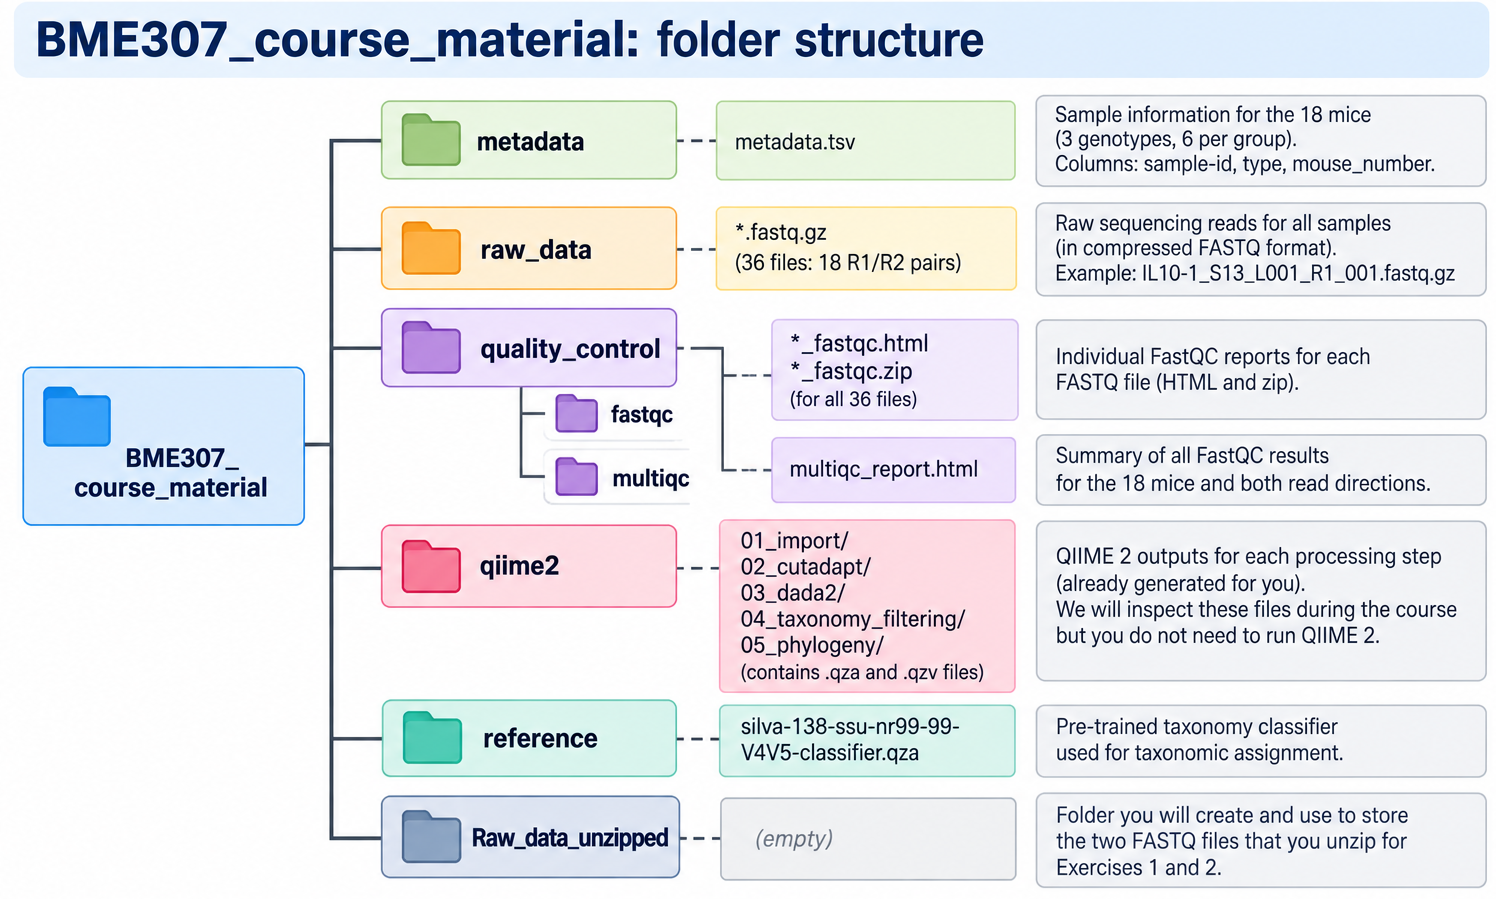
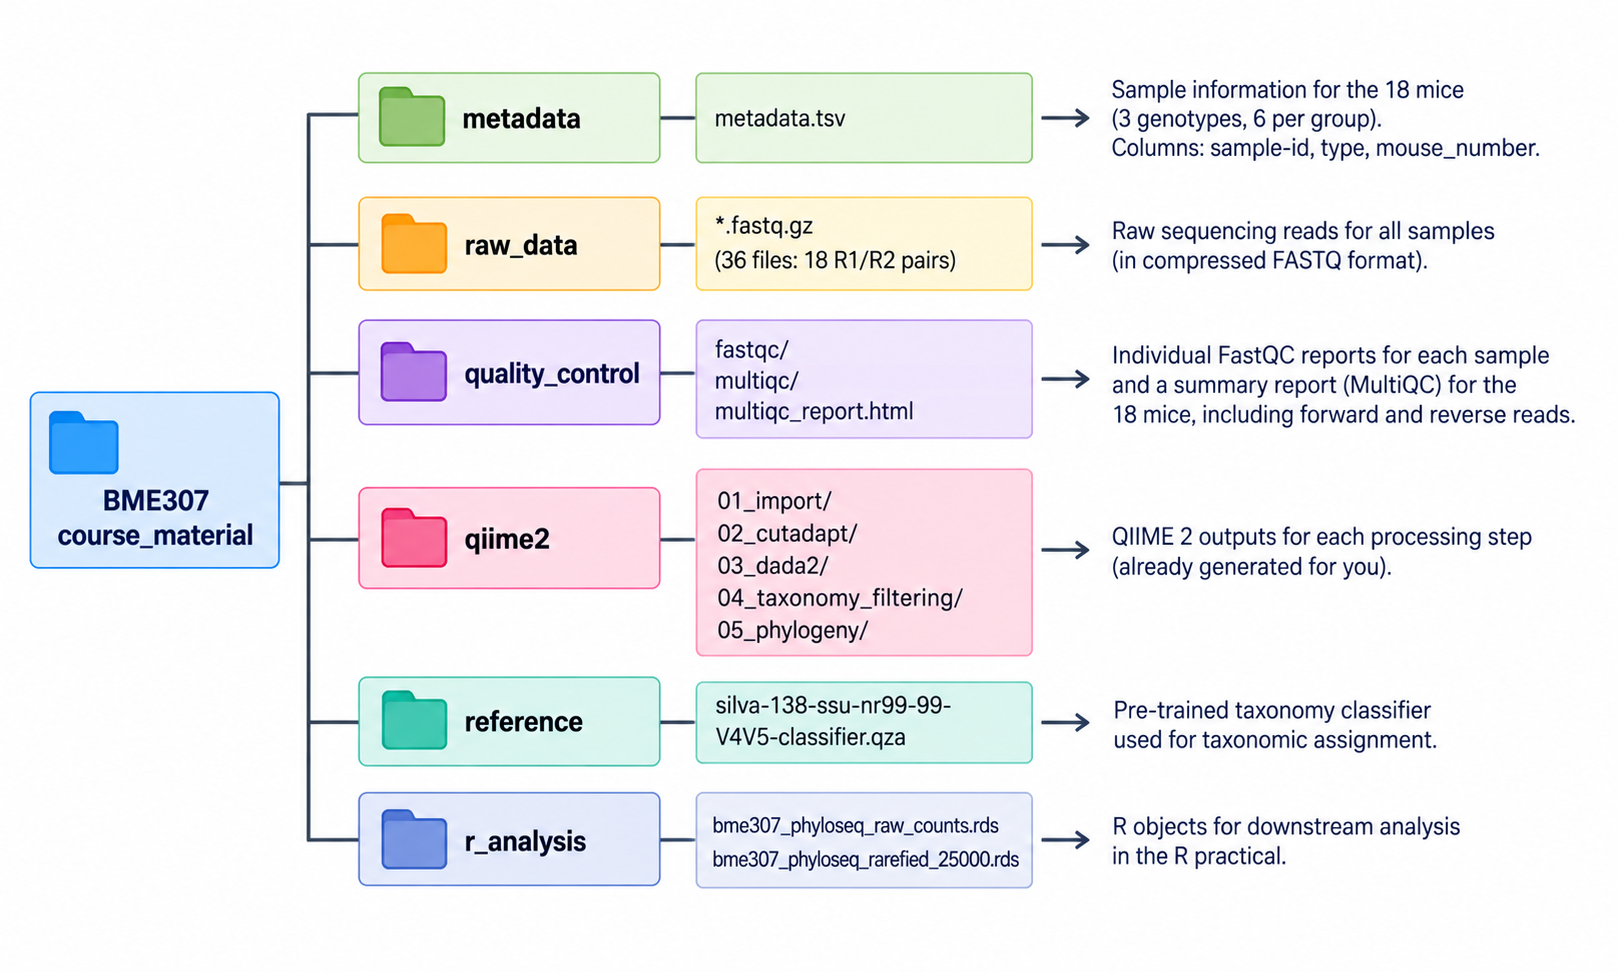
Apply final QIIME2 course corrections

diff --git a/docs/workflow.md b/docs/workflow.md
@@ -1,8 +1,8 @@
 # 1. QIIME2 Workflow: From FASTQ reads to microbiome analysis objects
 
-This practical follows 16S rRNA V4–V5 sequencing data from **18 mice**: six wild type, six IL-10 deficient and six MUC2 deficient. We ask whether host genotype is associated with gut microbiome composition and diversity.
+This practical follows 16S rRNA V4–V5 sequencing data from **18 mice**: six wild type, six IL-10 deficient and six MUC2 deficient. We will explore gut bacterial community composition across the three mouse models, investigating patterns of microbial diversity.
 
-The workflow follows the data from raw sequencing reads to the files that will later be combined and analysed in RStudio.
+The workflow follows the data from raw sequencing reads to the files that will later be combined and analyzed in RStudio.
 
 !!! important "What will you run during the practical?"
     You will inspect raw FASTQ files and run **FastQC** on selected files. The **QIIME 2 processing has already been run for you**. We will explain each QIIME 2 step and inspect its inputs and outputs, but you do not need to install or run QIIME 2 during the practical.
@@ -66,9 +66,6 @@ Sequencers do not read every nucleotide with equal confidence. Sequence quality 
 
 **MultiQC** combines the FastQC results from multiple samples into one report. This makes it easier to compare the 18 mice and the two read directions and to identify unusual samples.
 
-**Input:** 36 compressed FASTQ files (18 R1/R2 pairs)  
-**Outputs:** individual FastQC reports and one pre-generated MultiQC report
-
 ---
 
 ???+ question "Exercise 2A — FastQC"
@@ -110,11 +107,23 @@ Sequencers do not read every nucleotide with equal confidence. Sequence quality 
     - an `.html` report that can be opened in a web browser;
     - a `.zip` file containing the underlying FastQC results.
 
-    Open the **two `.html` FastQC reports** in:
+    To inspect one of the FastQC reports, navigate to the output folder and open the corresponding HTML file:
 
-    ```text
-    results/fastqc/
-    ```
+    === "macOS"
+
+        ```bash
+        cd results/fastqc
+        open filename.html
+        ```
+
+    === "Windows PowerShell"
+
+        ```powershell
+        cd results/fastqc
+        start filename.html
+        ```
+
+    Replace `filename.html` with the name of the FastQC report you want to open.
 
     Answer the following questions:
 
@@ -133,9 +142,10 @@ Sequencers do not read every nucleotide with equal confidence. Sequence quality 
 
     ```text
     quality_control/multiqc/multiqc_report.html
+
     ```
 
-    Work in pairs and compare the 18 mice and both read directions.
+    Work in pairs and compare the 18 mice across forward (R1) and reverse (R2) reads.
 
     1. Do forward (R1) and reverse (R2) reads have the same quality profile?
     2. Where does sequence quality begin to decline?
@@ -159,8 +169,6 @@ You will **not run these QIIME 2 commands during the practical**. Instead, we wi
 As introduced in the **QIIME 2 primer**, QIIME 2 stores data in structured files called **artifacts (`.qza`)**. Interactive visualizations are stored as **`.qzv` files** and can be opened using [QIIME 2 View](https://view.qiime2.org/).
 
 Importing the raw FASTQ files packages the complete paired-end dataset into a QIIME 2 artifact and begins a provenance record of how the data were processed.
-
-Importing does **not** alter the nucleotide sequences and does **not** combine the 18 mice into one sample. The sample identities and their corresponding R1 and R2 reads remain distinct within the artifact.
 
 **Input:** demultiplexed paired-end FASTQ reads  
 **Outputs:** imported paired-end reads and a visualization of read counts and quality
@@ -207,7 +215,7 @@ Importing does **not** alter the nucleotide sequences and does **not** combine t
 
 The bacterial 16S rRNA gene is longer than the region sequenced in this experiment. During PCR, short synthetic DNA sequences called **primers** bind on either side of the V4–V5 region and allow this region to be amplified.
 
-Primer sequences are therefore technical components of the laboratory protocol, not biological variation among the mice. If retained, they can interfere with read merging, sequence comparison and taxonomic classification.
+Primer sequences are therefore technical components of the laboratory protocol, not biological variation among the mice. 
 
 To remove them, we use the QIIME 2 **Cutadapt** plugin, which searches for the expected forward and reverse primer sequences and trims them from the reads where they are found.
 
@@ -216,7 +224,9 @@ The primers used here are:
 - Forward primer: `GTGYCAGCMGCCGCGGTAA`
 - Reverse primer: `CCGYCAATTYMTTTRAGTTT`
 
-Letters such as `Y` and `M` are **IUPAC ambiguity codes**, allowing a primer position to match more than one nucleotide. We can discard reads in which the expected primer is not detected because they may be incomplete, incorrectly oriented or unrelated to the intended amplicon.
+Letters such as `Y` and `M` are **IUPAC ambiguity codes**, allowing a primer position to match more than one nucleotide. 
+
+We can discard reads in which the expected primer is not detected because they may be incomplete, incorrectly oriented or unrelated to the intended amplicon.
 
 **Input:** imported paired-end reads  
 **Outputs:** primer-trimmed reads, trimming statistics and a summary visualization
@@ -345,8 +355,13 @@ After DADA2, three outputs are particularly important:
 
     1. What does the **number of features** represent? How many ASVs were detected across the 18 samples?
     2. What does **total frequency** represent?
-    3. The ASV count table contains samples as columns and ASVs as rows. What does one value in this table represent?
-    4. Get together in pairs and calculate the **percentage of reads retained after denoising for each sample**. To obtain the number of reads before denoising, compare with:
+    3. Get together in pairs and calculate the **percentage of reads retained after denoising for each sample**, using the read counts after denoising from:
+
+       ```text
+       qiime2/03_dada2/03-table.qzv
+       ```
+
+       And the read counts before denoising from:
 
        ```text
        qiime2/02_cutadapt/02-demux-trimmed-summary.qzv
@@ -368,8 +383,8 @@ After DADA2, three outputs are particularly important:
 
     Examine the **Sequence Length Statistics** and the **Sequence Table**.
 
-    5. What does one representative sequence represent?
-    6. After denoising with DADA2, we have obtained a set of amplicon sequence variants (ASVs). Why are the lengths of these sequences different from the lengths of the reads in the original FASTQ files?
+    4. What does one representative sequence represent?
+    5. After denoising with DADA2, we have obtained a set of amplicon sequence variants (ASVs). Why are the lengths of these sequences different from the lengths of the reads in the original FASTQ files?
 
     **3. Inspect the denoising statistics**
 
@@ -381,7 +396,7 @@ After DADA2, three outputs are particularly important:
 
     This file shows how many reads remain at the different stages of DADA2 processing.
 
-    7. What stages are shown in this file? During which DADA2 stage are most reads lost?
+    6. What stages are shown in this file? During which DADA2 stage are most reads lost?
 
 
 ---
@@ -525,19 +540,55 @@ The tree is inferred from the sequenced 16S marker region; it is not a complete 
       --o-rooted-tree qiime2/05_phylogeny/05-rooted-tree.qza
     ```
 
-???+ question "Exercise 3.6 — Connect the tree to downstream analysis"
+???+ question "Exercise 3.6 — Explore the phylogenetic tree"
 
-    The rooted tree is stored as:
+    The rooted phylogenetic tree has been exported from QIIME 2 in **Newick (`.nwk`) format** so that it can be visualised using a phylogenetic tree viewer.
 
-    ```text
-    qiime2/05_phylogeny/05-rooted-tree.qza
-    ```
+    Open:
+
+    `qiime2/05_phylogeny/tree.nwk`
+
+    Go to [iTOL (Interactive Tree Of Life)](https://itol.embl.de/) and upload the `.nwk` file to visualise the tree.
+
+    Explore the tree and discuss:
 
     1. What does one terminal tip of the tree represent?
     2. Why must the tree-tip labels match the ASV identifiers in the ASV count table?
     3. Name one downstream diversity analysis that uses phylogenetic branch lengths.
 
-!!! note
-    The rooted tree is required for Faith's phylogenetic diversity and UniFrac distances. It is not required for observed richness, Shannon diversity, Bray–Curtis or Jaccard distances.
-
 ---
+
+## Summary: From QIIME 2 to R
+
+We have now followed the sequencing data from the original FASTQ reads to a set of processed outputs that describe the bacterial communities in our samples.
+
+The main components that we will need for downstream microbiome analysis are:
+
+```text
+Filtered ASV count table ──────┐
+                               │
+Taxonomic assignments ─────────┤
+                               ├──→ phyloseq object → analysis in R
+Sample metadata ───────────────┤
+                               │
+Rooted phylogenetic tree ──────┘
+```
+
+Each of these components contributes different information:
+
+- The **filtered ASV count table** contains the number of reads assigned to each bacterial ASV in each mouse.
+- The **taxonomic assignments** describe the bacterial taxonomy associated with each ASV.
+- The **sample metadata** contain information about the mice and their experimental groups.
+- The **rooted phylogenetic tree** describes the phylogenetic relationships among the ASVs and will be required for phylogeny-aware diversity metrics such as UniFrac and Faith's phylogenetic diversity.
+
+In preparation for the R practical, these components have been combined into a **phyloseq object**. The object will be provided to you so that we can focus on exploring the microbial communities, visualising the data and performing statistical analyses in R.
+
+!!! info "What happens next?"
+
+    In the **R workflow**, we will use the phyloseq object to investigate:
+
+    - sequencing depth;
+    - taxonomic composition;
+    - alpha diversity within individual mice;
+    - beta diversity between mice;
+    - and whether the observed differences among the three mouse groups are statistically supported.
